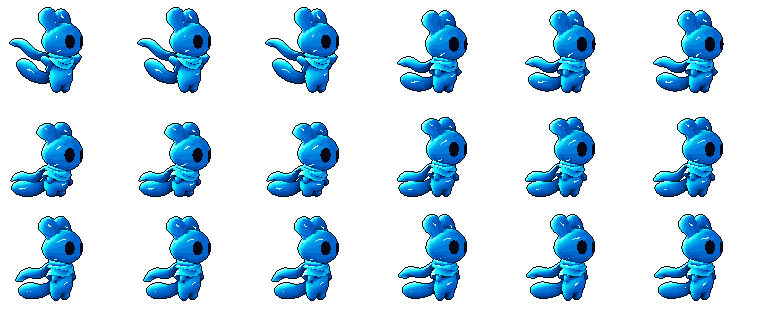
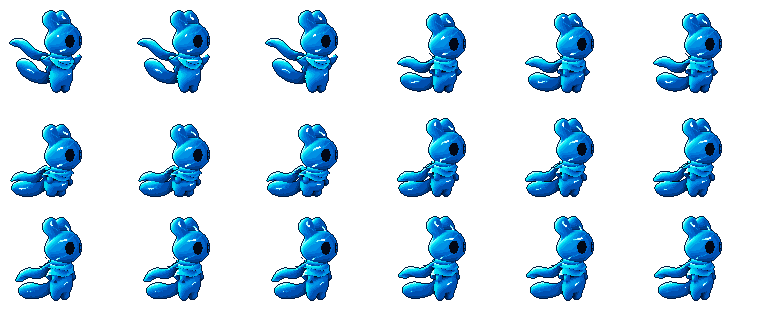
art(warden): 현재 사용 중인 점프 스프라이트 변경을 보존
사용자 커밋 지시에 따라 런타임에서 이미 읽고 있던 점프 시작·상승·낙하·착지 좌우 PNG 8개를 별도 커밋한다. 이전 효과 최적화 커밋에서 제외했던 기존 변경을 포함한다.

8개 SHA가 전체 163개 검사와 실제 SDL 검사 당시 파일과 같음을 확인해 유효한 검증 결과를 재사용했다. 추가 생성이나 픽셀 수정은 하지 않았으며 사용자 직접 미술 품질 확인은 미실시다. tmp는 제외한다.

diff --git a/docs/progress.md b/docs/progress.md
@@ -4,7 +4,9 @@
 
 ## 현재 단계
 
-- **PNG 효과 재생 014 구현·검증 완료:** 사용자 요청과 미세 형태 차이 허용에 따라 전하33단계×72위상·전류72길이×12샘플을 PNG 재생으로 전환했다. 런타임 픽셀 생성·효과 업로드0회, 이전 NumPy 구현 대비 소프트웨어 p95 12.630→1.558ms(-87.7%). 이미지 RGBA59.74MiB·PNG13.095MiB, 장면 로딩72.2→295.2ms. 전체163검사·실제SDL10순간이동·창 전환·해제 통과. [명세](../specs/014-baked-effects/spec.md)·[계획](../specs/014-baked-effects/plan.md)·[검증과 한계](../specs/014-baked-effects/verification.md). feature/baked-effects에서 검증 증분을 로컬 커밋하며 사용자 점프 PNG8개·tmp는 보존/제외한다. PR/push·사용자 직접 미술/조작감은 미확인이다.
+- **현재 사용 점프 PNG 보존:** 후속 커밋 지시에 따라 assets/warden의 시작·상승·낙하·착지 좌우8개 기존 미커밋 PNG를 별도 커밋에 포함한다. 게임은 이 파일들을 이미 사용 중이었으며 앞선 전체163검사 당시와8개 SHA가 동일해 검사 결과를 재사용한다. 새 제작·추가 미술 승인을 의미하지 않는다. 사용자 요청으로 feature/baked-effects를 main 대상 PR까지 진행한다.
+
+- **PNG 효과 재생 014 구현·검증 완료:** 사용자 요청과 미세 형태 차이 허용에 따라 전하33단계×72위상·전류72길이×12샘플을 PNG 재생으로 전환했다. 런타임 픽셀 생성·효과 업로드0회, 이전 NumPy 구현 대비 소프트웨어 p95 12.630→1.558ms(-87.7%). 이미지 RGBA59.74MiB·PNG13.095MiB, 장면 로딩72.2→295.2ms. 전체163검사·실제SDL10순간이동·창 전환·해제 통과. [명세](../specs/014-baked-effects/spec.md)·[계획](../specs/014-baked-effects/plan.md)·[검증과 한계](../specs/014-baked-effects/verification.md). 효과 증분은 feature/baked-effects에 커밋했고 후속 요청에 따라 현재 사용 점프 PNG8개도 별도 커밋한다. tmp는 제외하며 사용자 직접 미술/조작감은 미확인이다.
 
 - **감사 013 수정·검증 완료:** 사용자 요청의1~5(예약 공격 첫 프레임, 표시 전환 클릭, 효과 모양 보존 성능, 예외 참조 해제, 행동 판정 중복)를 수정했다. [명세](../specs/013-audit-fixes/spec.md)·[계획](../specs/013-audit-fixes/plan.md)·[검증](../specs/013-audit-fixes/verification.md). 전체161검사·실제SDL 예약 공격/전환/전하/종료를 통과했다. 합성1,944샘플·업로드847개 RGBA가 기존과 같고 교대900프레임의 픽셀CPU p95는22.175→8.957ms였다. NumPy2.5.4를 게임환경에 추가하고 PNG·전류 래스터는 유지했다. feature/audit-fixes에서 검증 증분을 로컬 커밋하며 사용자 점프 PNG8개·기존 tmp는 보존/제외한다. PR/push와 사람의 직접 조작감 확인은 미실시다.
 
